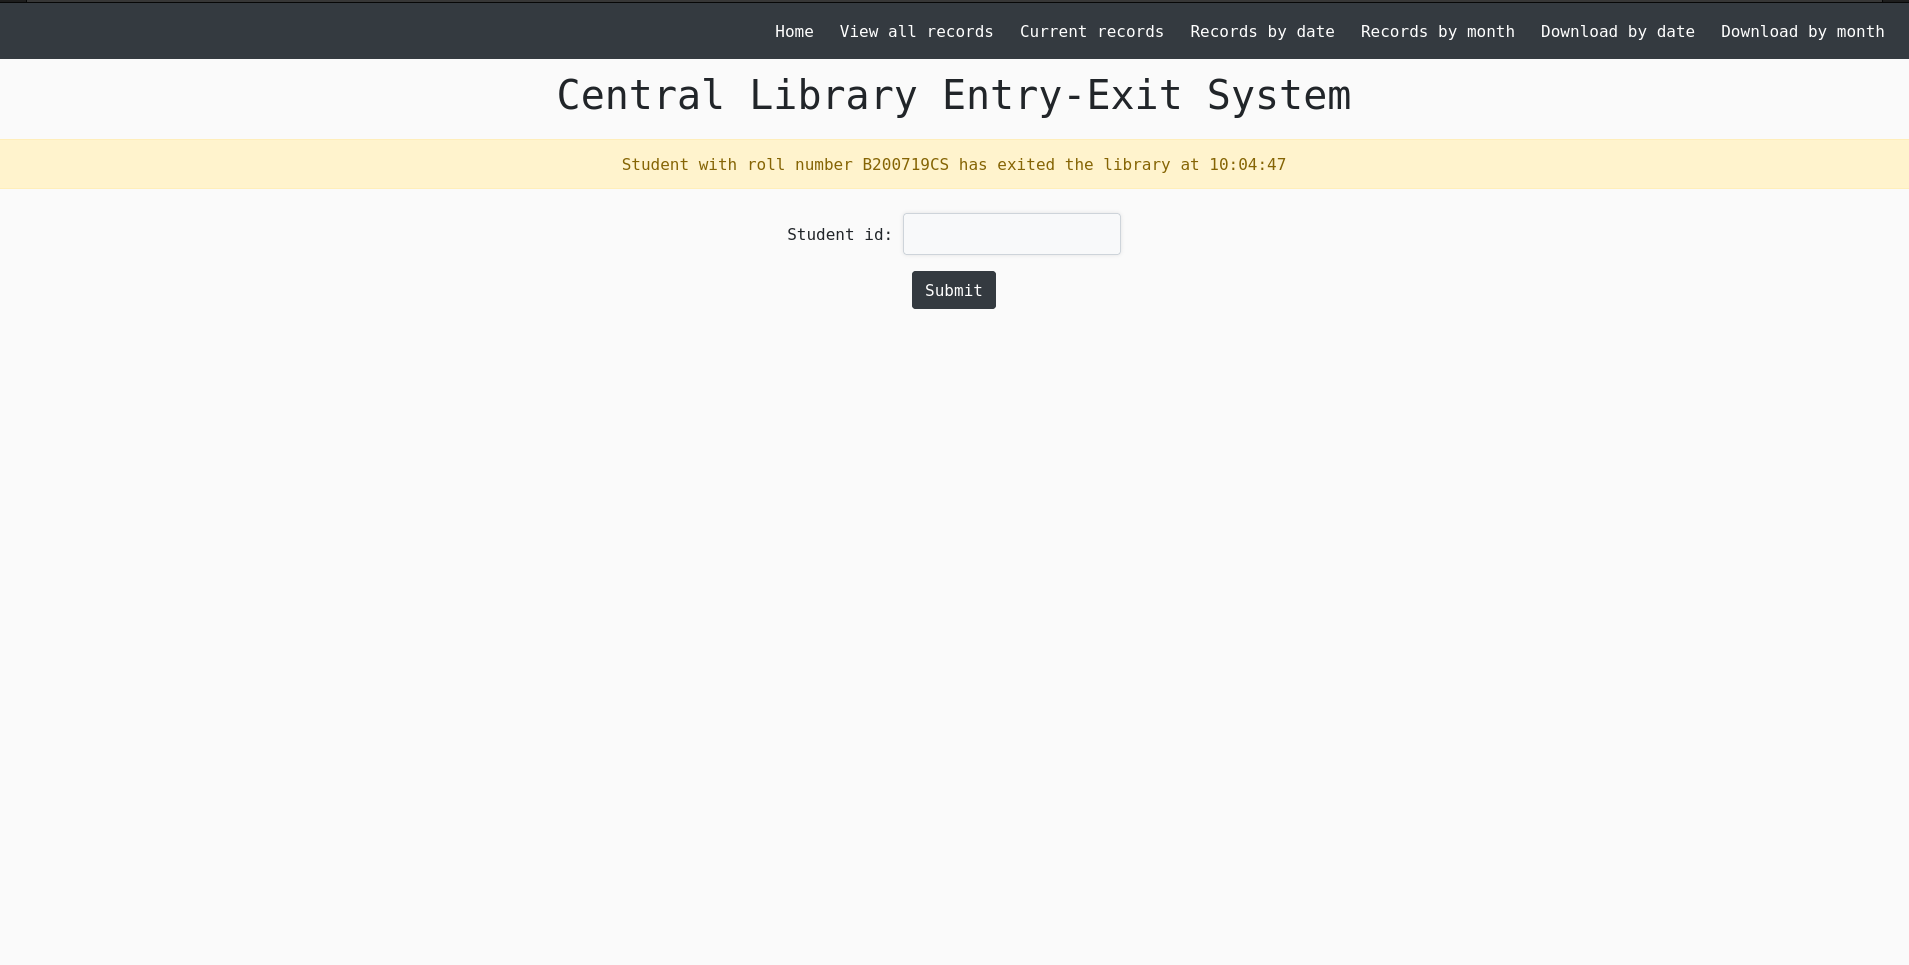
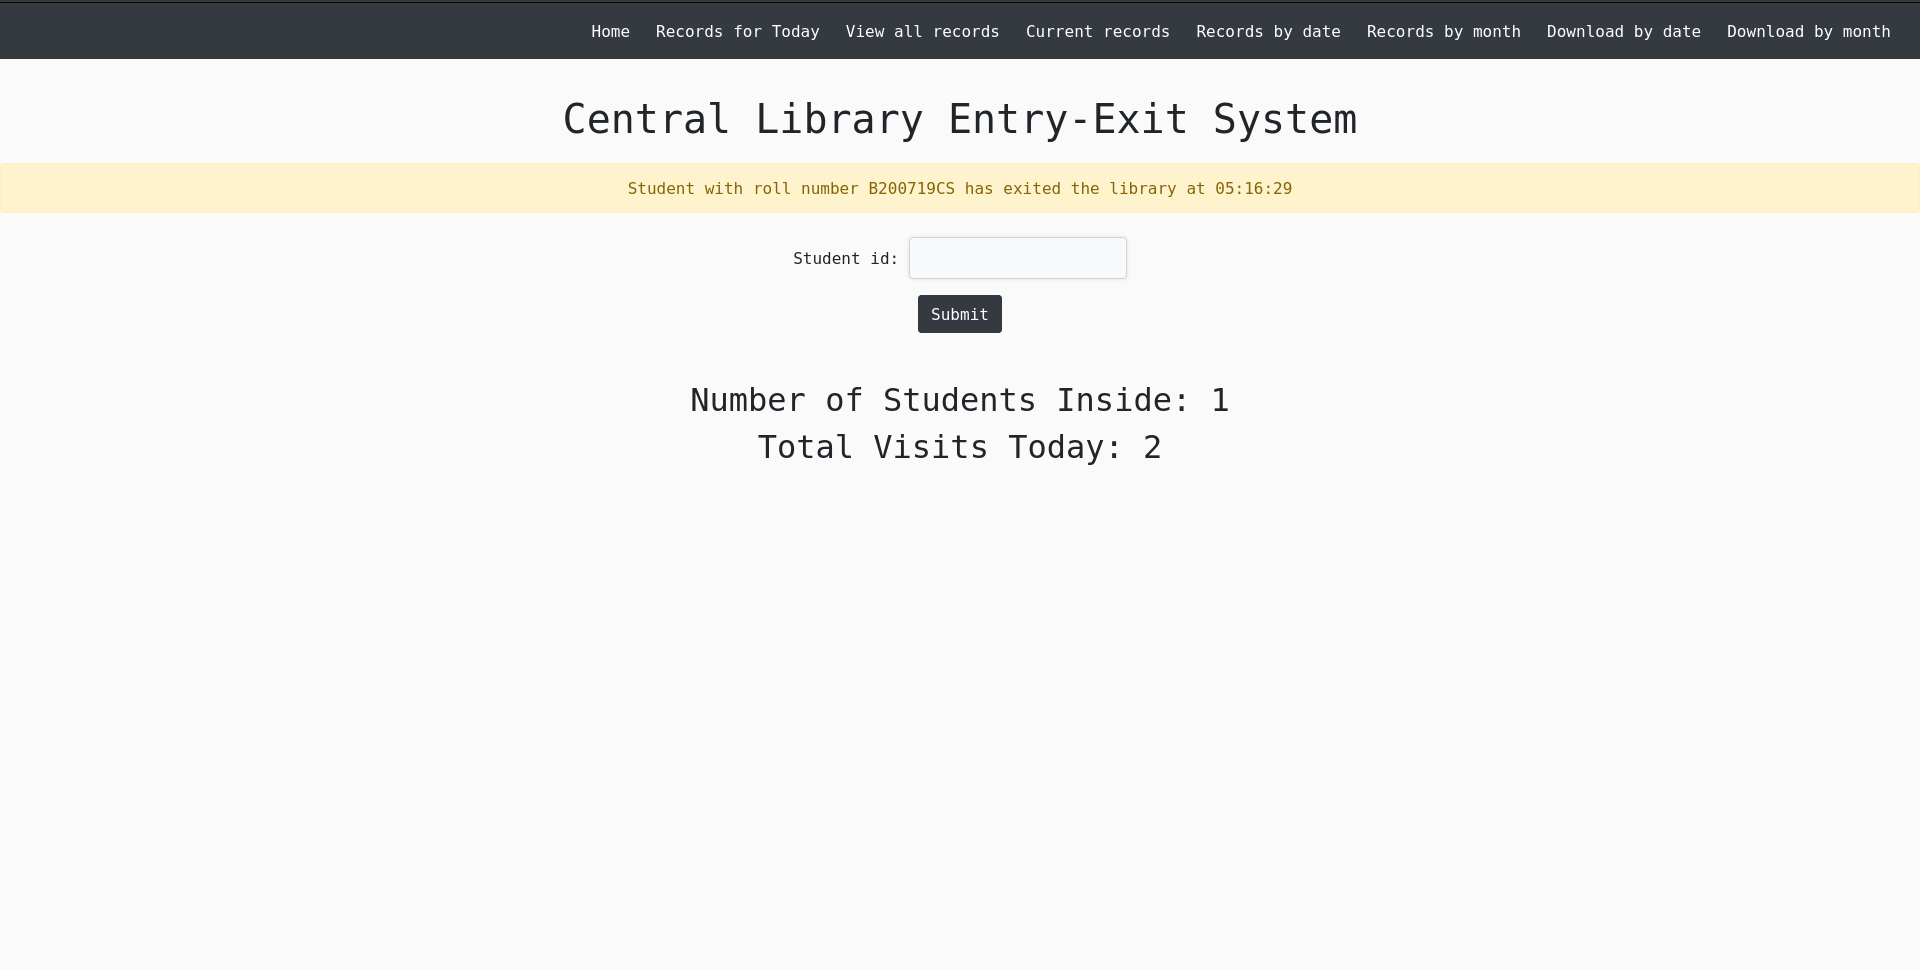
updated readme.md

diff --git a/enter/templates/library.html b/enter/templates/library.html
@@ -5,7 +5,7 @@
 {% endblock %}
 
 {% block content%}
-    <br>e
+    <br>
     <h1 class="text-center">Central Library Entry-Exit System</h1>
     <!-- make the message green when it is an entry and red when it is exit-->
     

diff --git a/readme.md b/readme.md
@@ -7,7 +7,7 @@ A Django application to record the entry and exit of students into the library b
 - Python 3.7 or above
 - Git
 - RFID Reader with compatible RFID cards
-- Ubuntu (for Linux installation) or Windows (for Windows installation)
+- Ubuntu 20.04 or higher (for Linux installation) or Windows 10/11 (for Windows installation)
 - Access to the same network for both the server and the RFID reader
 
 ### Installation
@@ -124,6 +124,10 @@ To add the usage instructions and additional information to the README file, you
 
    ![Current Records](screenshots/current_records.png)
 
+6. To view the list of students who entered today, click on the "Records for Today" link from the navigation menu.
+
+   ![Records for Today](screenshots/records_today.png)
+
 6. To view the list of students on a specific day, click on the "View by Date" link from the navigation menu.
 
 7. To view the list of students for a specific month, click on the "View by Month" link from the navigation menu.
@@ -136,5 +140,11 @@ To add the usage instructions and additional information to the README file, you
 
 To clear the database and delete all data, run the `clear.py` script. **Warning**: Make sure to backup data by downloading it before running this script.
 
+### Notes
+This software was made for the [eSSL U-5 RFID reader](https://www.esslsecurity.com/rfidreaders/u-5).
+![eSSL U-5 RFID reader](screenshots/essl-u5.jpg)
+ If you are using a different device, please make sure to modify the readData
+function in [views.py](/enter/views.py).
+
 ## Contribution
-Contributions are always welcome! Feel free to create a pull request, and I'll review it promptly. Your help is much appreciated!
+Contributions are always welcome! Feel free to create a pull request, and I'll review it promptly.
